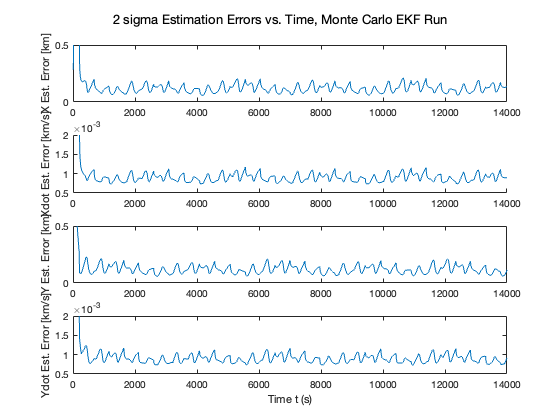
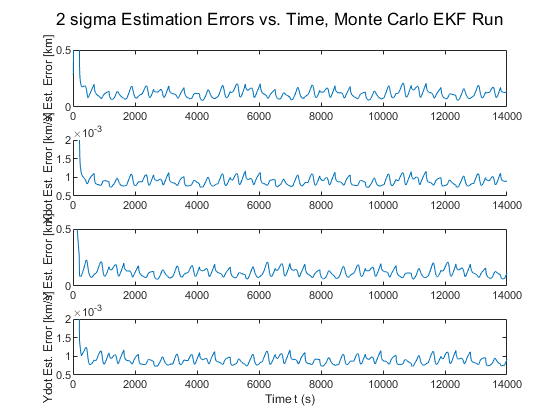
few final edits

Changed region(s): [[0.0607, 0.0619, 0.9411, 0.9595], [0.1214, 0.1548, 0.9411, 0.3095], [0.0911, 0.031, 0.9107, 0.0619]]

diff --git a/final_project.m b/final_project.m
@@ -1,8 +1,9 @@
 close all
 clear
-% rng(100);
+rng(100);
 % constants
 ymax = 10;     % y-limit for NEES/NIS plots
+alpha = 0.05;  % 95% confidence
 mu = 398600; % gravitational constant
 omegaE = 2*pi/86400;  % angular velocity of earth
 rE = 6378; % radius of earth
@@ -138,7 +139,6 @@ measInnovations = {};
 measInnovationsCov = {};
 NEES = {};
 NIS = {};
-
 for i = 1:numTrials
     disp(['Running LKF trial ' int2str(i) '...']);
     % Initialize priors
@@ -244,7 +244,7 @@ plotNeesNis(t, NEES, NIS, alpha, numTrials, 'NEES/NIS plots for LKF', length(t),
 % Tuning inputs
 rng(100);
 numTrials = 1;
-sim = false;
+sim = true;
 givenData = load('orbitdeterm_finalproj_KFdata.mat');
 Qkf = eye(2)*1e-10;
 R = givenData.Rtrue;
